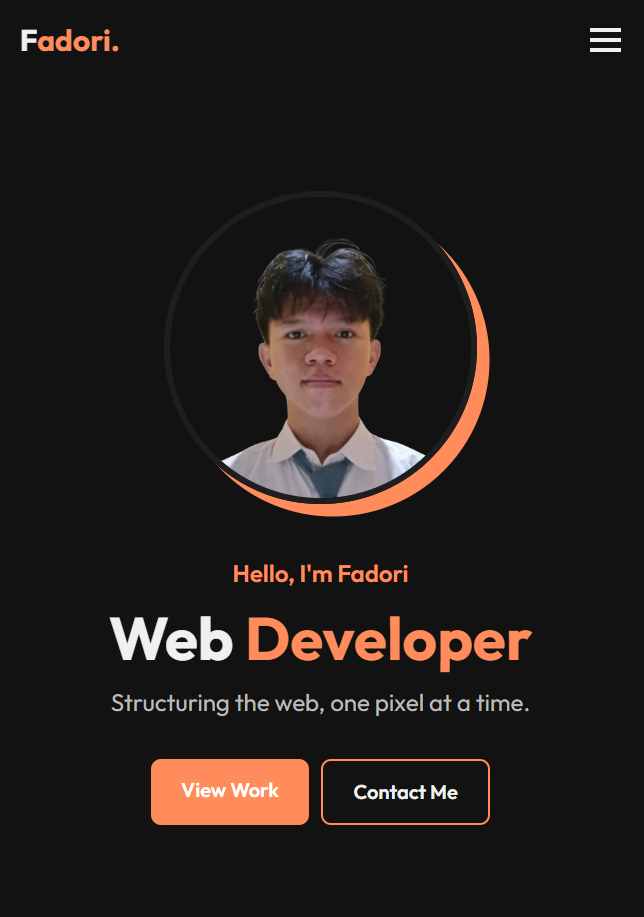
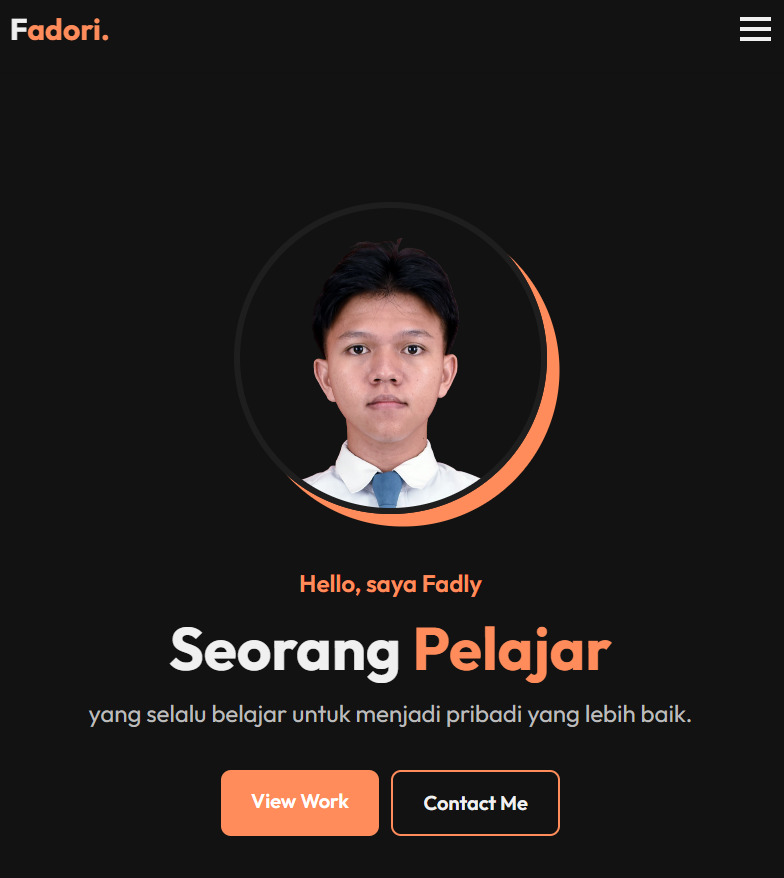
Add files via upload

diff --git a/index.html b/index.html
@@ -4,7 +4,7 @@
 <head>
     <meta charset="UTF-8">
     <meta name="viewport" content="width=device-width, initial-scale=1.0">
-    <title>My Portfolio | Web Developer</title>
+    <title>My Portfolio | Fadori</title>
     <!-- Google Fonts: Outfit -->
     <link rel="preconnect" href="https://fonts.googleapis.com">
     <link rel="preconnect" href="https://fonts.gstatic.com" crossorigin>
@@ -23,6 +23,7 @@
                 <li><a href="#about">About</a></li>
                 <li><a href="#skills">Skills</a></li>
                 <li><a href="#projects">Projects</a></li>
+                <li><a href="#awards">Awards</a></li>
                 <li><a href="#contact">Contact</a></li>
                 <li class="theme-switch-wrapper">
                     <button id="theme-toggle" aria-label="Toggle Dark Mode">
@@ -43,9 +44,9 @@
         <section id="home" class="hero">
             <div class="container hero-content">
                 <div class="hero-text">
-                    <p class="greeting">Hello, I'm Fadori</p>
-                    <h1>Web <span class="accent-text">Developer</span></h1>
-                    <p class="hero-sub">Structuring the web, one pixel at a time.</p>
+                    <p class="greeting">Hello, saya Fadly</p>
+                    <h1>Seorang <span class="accent-text">Pelajar</span></h1>
+                    <p class="hero-sub">yang selalu belajar untuk menjadi pribadi yang lebih baik.</p>
                     <div class="hero-btns">
                         <a href="#projects" class="btn btn-primary">View Work</a>
                         <a href="#contact" class="btn btn-secondary">Contact Me</a>
@@ -66,35 +67,44 @@
                 <div class="about-content">
                     <div class="about-columns">
                         <div class="about-details">
-                            <h3>Driven by <span class="highlight">Creativity</span></h3>
+                            <h3>F<span class="highlight">adori.</span></h3>
                             <div class="about-text">
-                                <p>Hi, I'm <span class="highlight">Fadori</span>. I'm not just learning to code; I'm
-                                    learning to create digital experiences. My journey in web development is fueled by a
-                                    desire to build simple yet powerful websites.</p>
-                                <p>I specialize in translating designs into responsive, interactive, and performant
-                                    code. When I'm not coding, I'm exploring the latest web trends.</p>
+                                <p>Saya <strong>Muhammad Fadly Firdaus</strong>, seorang pelajar yang memiliki
+                                    ketertarikan pada teknologi informasi serta pemanfaatannya untuk meningkatkan
+                                    efisiensi dan menyelesaikan permasalahan. Saya terbiasa bekerja secara disiplin,
+                                    konsisten, dan bertanggung jawab dalam setiap proses yang saya jalani. Selain itu,
+                                    saya aktif di bidang musik, khususnya dalam penciptaan lagu, yang melatih
+                                    kreativitas dan kemampuan berpikir ekspresif. Pengalaman akademik dan nonakademik
+                                    membentuk saya menjadi pribadi yang adaptif, komunikatif, dan siap terus berkembang.
+                                </p>
                             </div>
                         </div>
-                        <div class="stats">
-                            <div class="stat-item">
-                                <h3>1+</h3>
-                                <p>Months Learning</p>
+                        <div class="about-points">
+                            <div class="point-item">
+                                <i class="fas fa-laptop-code"></i>
+                                <span>Ketertarikan pada teknologi informasi dan pemecahan masalah berbasis
+                                    teknologi</span>
                             </div>
-                            <div class="stat-item">
-                                <h3>1+</h3>
-                                <p>Projects Built</p>
+                            <div class="point-item">
+                                <i class="fas fa-clock"></i>
+                                <span>Disiplin dan konsisten dalam belajar maupun mengerjakan proyek</span>
                             </div>
-                            <div class="stat-item">
-                                <h3>100%</h3>
-                                <p>Dedication</p>
+                            <div class="point-item">
+                                <i class="fas fa-music"></i>
+                                <span>Aktif berkarya di bidang musik, khususnya menciptakan lagu</span>
                             </div>
-                            <div class="stat-item">
-                                <h3><i class="fas fa-code"></i></h3>
-                                <p>Clean Code</p>
+                            <div class="point-item">
+                                <i class="fas fa-users"></i>
+                                <span>Mampu bekerja sama dalam tim dan memiliki komunikasi yang baik</span>
+                            </div>
+                            <div class="point-item">
+                                <i class="fas fa-book-open"></i>
+                                <span>Terbuka terhadap pembelajaran dan pengembangan diri berkelanjutan</span>
                             </div>
                         </div>
                     </div>
                 </div>
+            </div>
             </div>
         </section>
 
@@ -116,8 +126,8 @@
                         <h3>JavaScript</h3>
                     </div>
                     <div class="skill-card">
-                        <i class="fas fa-mobile-alt"></i>
-                        <h3>Responsive</h3>
+                        <i class="fas fa-music"></i>
+                        <h3>Musical Instruments</h3>
                     </div>
                 </div>
             </div>
@@ -136,7 +146,7 @@
                         <div class="project-info">
                             <h3>Portfolio V1</h3>
                             <p>My first attempt at a personal portfolio.</p>
-                            <a href="#" class="btn-link">View Project <i class="fas fa-arrow-right"></i></a>
+                            <a href="#home" class="btn-link">View Project <i class="fas fa-arrow-right"></i></a>
                         </div>
                     </div>
                     <!-- Project 2 -->
@@ -145,9 +155,10 @@
                             <img src="images/project2.png" alt="Project 2">
                         </div>
                         <div class="project-info">
-                            <h3>coming soon</h3>
-                            <p>-.</p>
-                            <a href="#" class="btn-link">- <i class="fas fa-arrow-right"></i></a>
+                            <h3>MBG Data Collection System</h3>
+                            <p>A website to facilitate the recording of MBG data from students.</p>
+                            <a href="https://sistem-pendataan-mbg.vercel.app/" class="btn-link">View Project <i
+                                    class="fas fa-arrow-right"></i></a>
                         </div>
                     </div>
                     <!-- Project 3 -->
@@ -159,6 +170,31 @@
                             <h3>coming soon</h3>
                             <p>-.</p>
                             <a href="#" class="btn-link">- <i class="fas fa-arrow-right"></i></a>
+                        </div>
+                    </div>
+                </div>
+            </div>
+        </section>
+
+        <!-- Awards Section -->
+        <section id="awards" class="section">
+            <div class="container">
+                <h2 class="section-title">Honors & <span class="accent-text">Awards</span></h2>
+                <div class="awards-grid">
+                    <!-- Award 1 -->
+                    <div class="award-card">
+                        <i class="fas fa-trophy"></i>
+                        <div class="award-info">
+                            <h3>Smart Scholarship YBM Brilian</h3>
+                            <p>Awarded by <strong>BRI</strong></p>
+                        </div>
+                    </div>
+                    <!-- Award 2 -->
+                    <div class="award-card">
+                        <i class="fas fa-award"></i>
+                        <div class="award-info">
+                            <h3>Scholarship Bisa Project Batch 3</h3>
+                            <p>Awarded by <strong>Kita Bisa</strong></p>
                         </div>
                     </div>
                 </div>

diff --git a/style.css b/style.css
@@ -271,6 +271,33 @@ body {
     font-weight: 500;
 }
 
+/* About Points */
+.about-points {
+    display: flex;
+    flex-direction: column;
+    gap: 15px;
+}
+
+.point-item {
+    display: flex;
+    align-items: flex-start;
+    gap: 15px;
+}
+
+.point-item i {
+    color: var(--accent-color);
+    font-size: 1.2rem;
+    min-width: 25px;
+    text-align: center;
+    margin-top: 4px;
+    /* Align icon with first line of text */
+}
+
+.point-item span {
+    color: var(--text-color);
+    font-size: 1rem;
+}
+
 /* Skills */
 .skills-grid {
     display: grid;
@@ -342,6 +369,54 @@ body {
     text-decoration: none;
     color: var(--accent-color);
     font-weight: 600;
+}
+
+/* Awards */
+.awards-grid {
+    display: grid;
+    grid-template-columns: repeat(auto-fit, minmax(280px, 1fr));
+    gap: 30px;
+}
+
+.award-card {
+    background-color: var(--card-bg);
+    padding: 30px;
+    border-radius: 12px;
+    box-shadow: var(--shadow);
+    display: flex;
+    align-items: center;
+    gap: 20px;
+    transition: var(--transition);
+    border-left: 5px solid var(--accent-color);
+}
+
+.award-card:hover {
+    transform: translateY(-5px);
+    box-shadow: 0 10px 25px rgba(0, 0, 0, 0.1);
+}
+
+.award-card i {
+    font-size: 2.5rem;
+    color: var(--accent-color);
+    background: rgba(255, 107, 53, 0.1);
+    padding: 15px;
+    border-radius: 50%;
+    width: 70px;
+    height: 70px;
+    display: flex;
+    align-items: center;
+    justify-content: center;
+}
+
+.award-info h3 {
+    font-size: 1.2rem;
+    margin-bottom: 5px;
+    color: var(--text-color);
+}
+
+.award-info p {
+    color: var(--text-light);
+    font-size: 0.95rem;
 }
 
 /* Contact */
